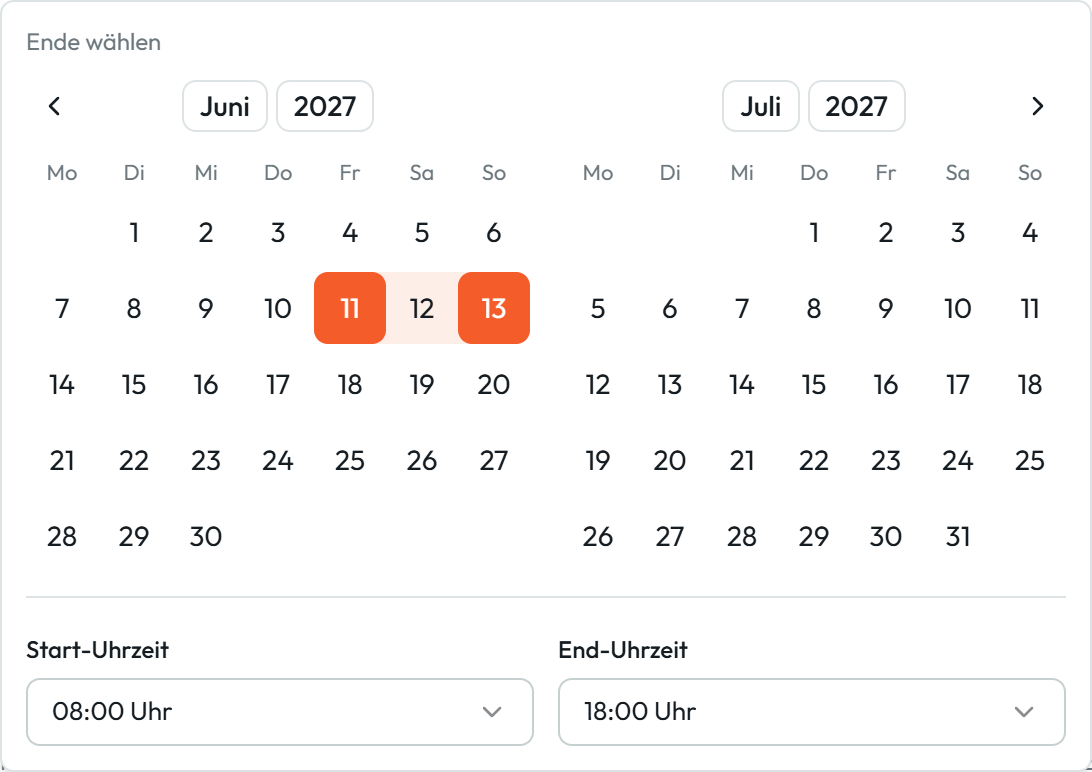
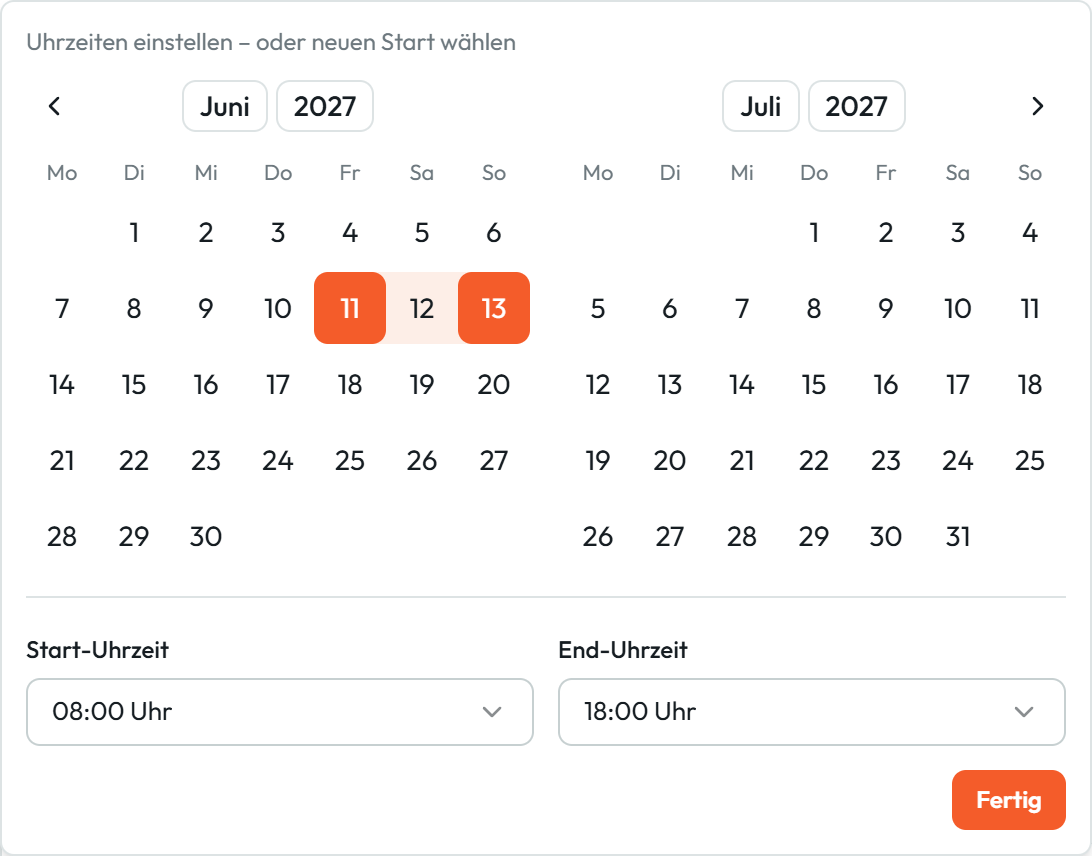
:lipstick: Zeitraum-Popover bleibt nach dem End-Tag offen.
So lassen sich danach noch die Uhrzeiten einstellen; „Fertig“ schließt
das Popover. Ankündigungsbild und -text angepasst.

diff --git a/src/components/ui/date-range-field.tsx b/src/components/ui/date-range-field.tsx
@@ -116,10 +116,10 @@ export function DateRangeField({
       setFrom(day);
       return;
     }
+    // Popover bleibt offen, damit man danach noch die Uhrzeiten einstellen kann.
     commit(from, day);
     setFrom(null);
     setHover(null);
-    setOpen(false);
   }
 
   function onTimeChange(which: "start" | "end", v: string) {
@@ -171,7 +171,11 @@ export function DateRangeField({
       </PopoverTrigger>
       <PopoverContent className="w-auto p-3" align="start">
         <p className="mb-2 text-xs text-muted-foreground">
-          {from ? "Ende wählen" : "Start wählen"}
+          {from
+            ? "Ende wählen"
+            : start && end
+              ? "Uhrzeiten einstellen – oder neuen Start wählen"
+              : "Start wählen"}
         </p>
         <DayPicker
           locale={de}
@@ -252,6 +256,11 @@ export function DateRangeField({
               onChange={(v) => onTimeChange("end", v)}
             />
           </div>
+        </div>
+        <div className="mt-3 flex justify-end">
+          <Button type="button" size="sm" onClick={() => setOpen(false)} disabled={!!from}>
+            Fertig
+          </Button>
         </div>
       </PopoverContent>
     </Popover>

diff --git a/src/lib/announcements.ts b/src/lib/announcements.ts
@@ -29,7 +29,7 @@ export const ANNOUNCEMENTS: Announcement[] = [
       "Planungs- und Berechnungszeiträume setzt du jetzt mit wenigen Klicks direkt im Kalender – den Berechnungstag schlägt Cratel automatisch vor.",
     steps: [
       {
-        text: "Planungszeitraum: Feld anklicken, dann Start- und End-Tag nacheinander anklicken. Monat und Jahr stellst du oben direkt um, die Uhrzeiten sind vorbelegt und halbstündig wählbar.",
+        text: "Planungszeitraum: Feld anklicken, dann Start- und End-Tag nacheinander anklicken. Monat und Jahr stellst du oben direkt um. Die Uhrzeiten sind vorbelegt und halbstündig wählbar – mit „Fertig“ schließen.",
         image: "/announcements/2026-10-06b-zeitraeume-1.png",
         alt: "Kalender mit zwei Monaten, Start- und End-Tag markiert, darunter Start- und End-Uhrzeit",
       },
